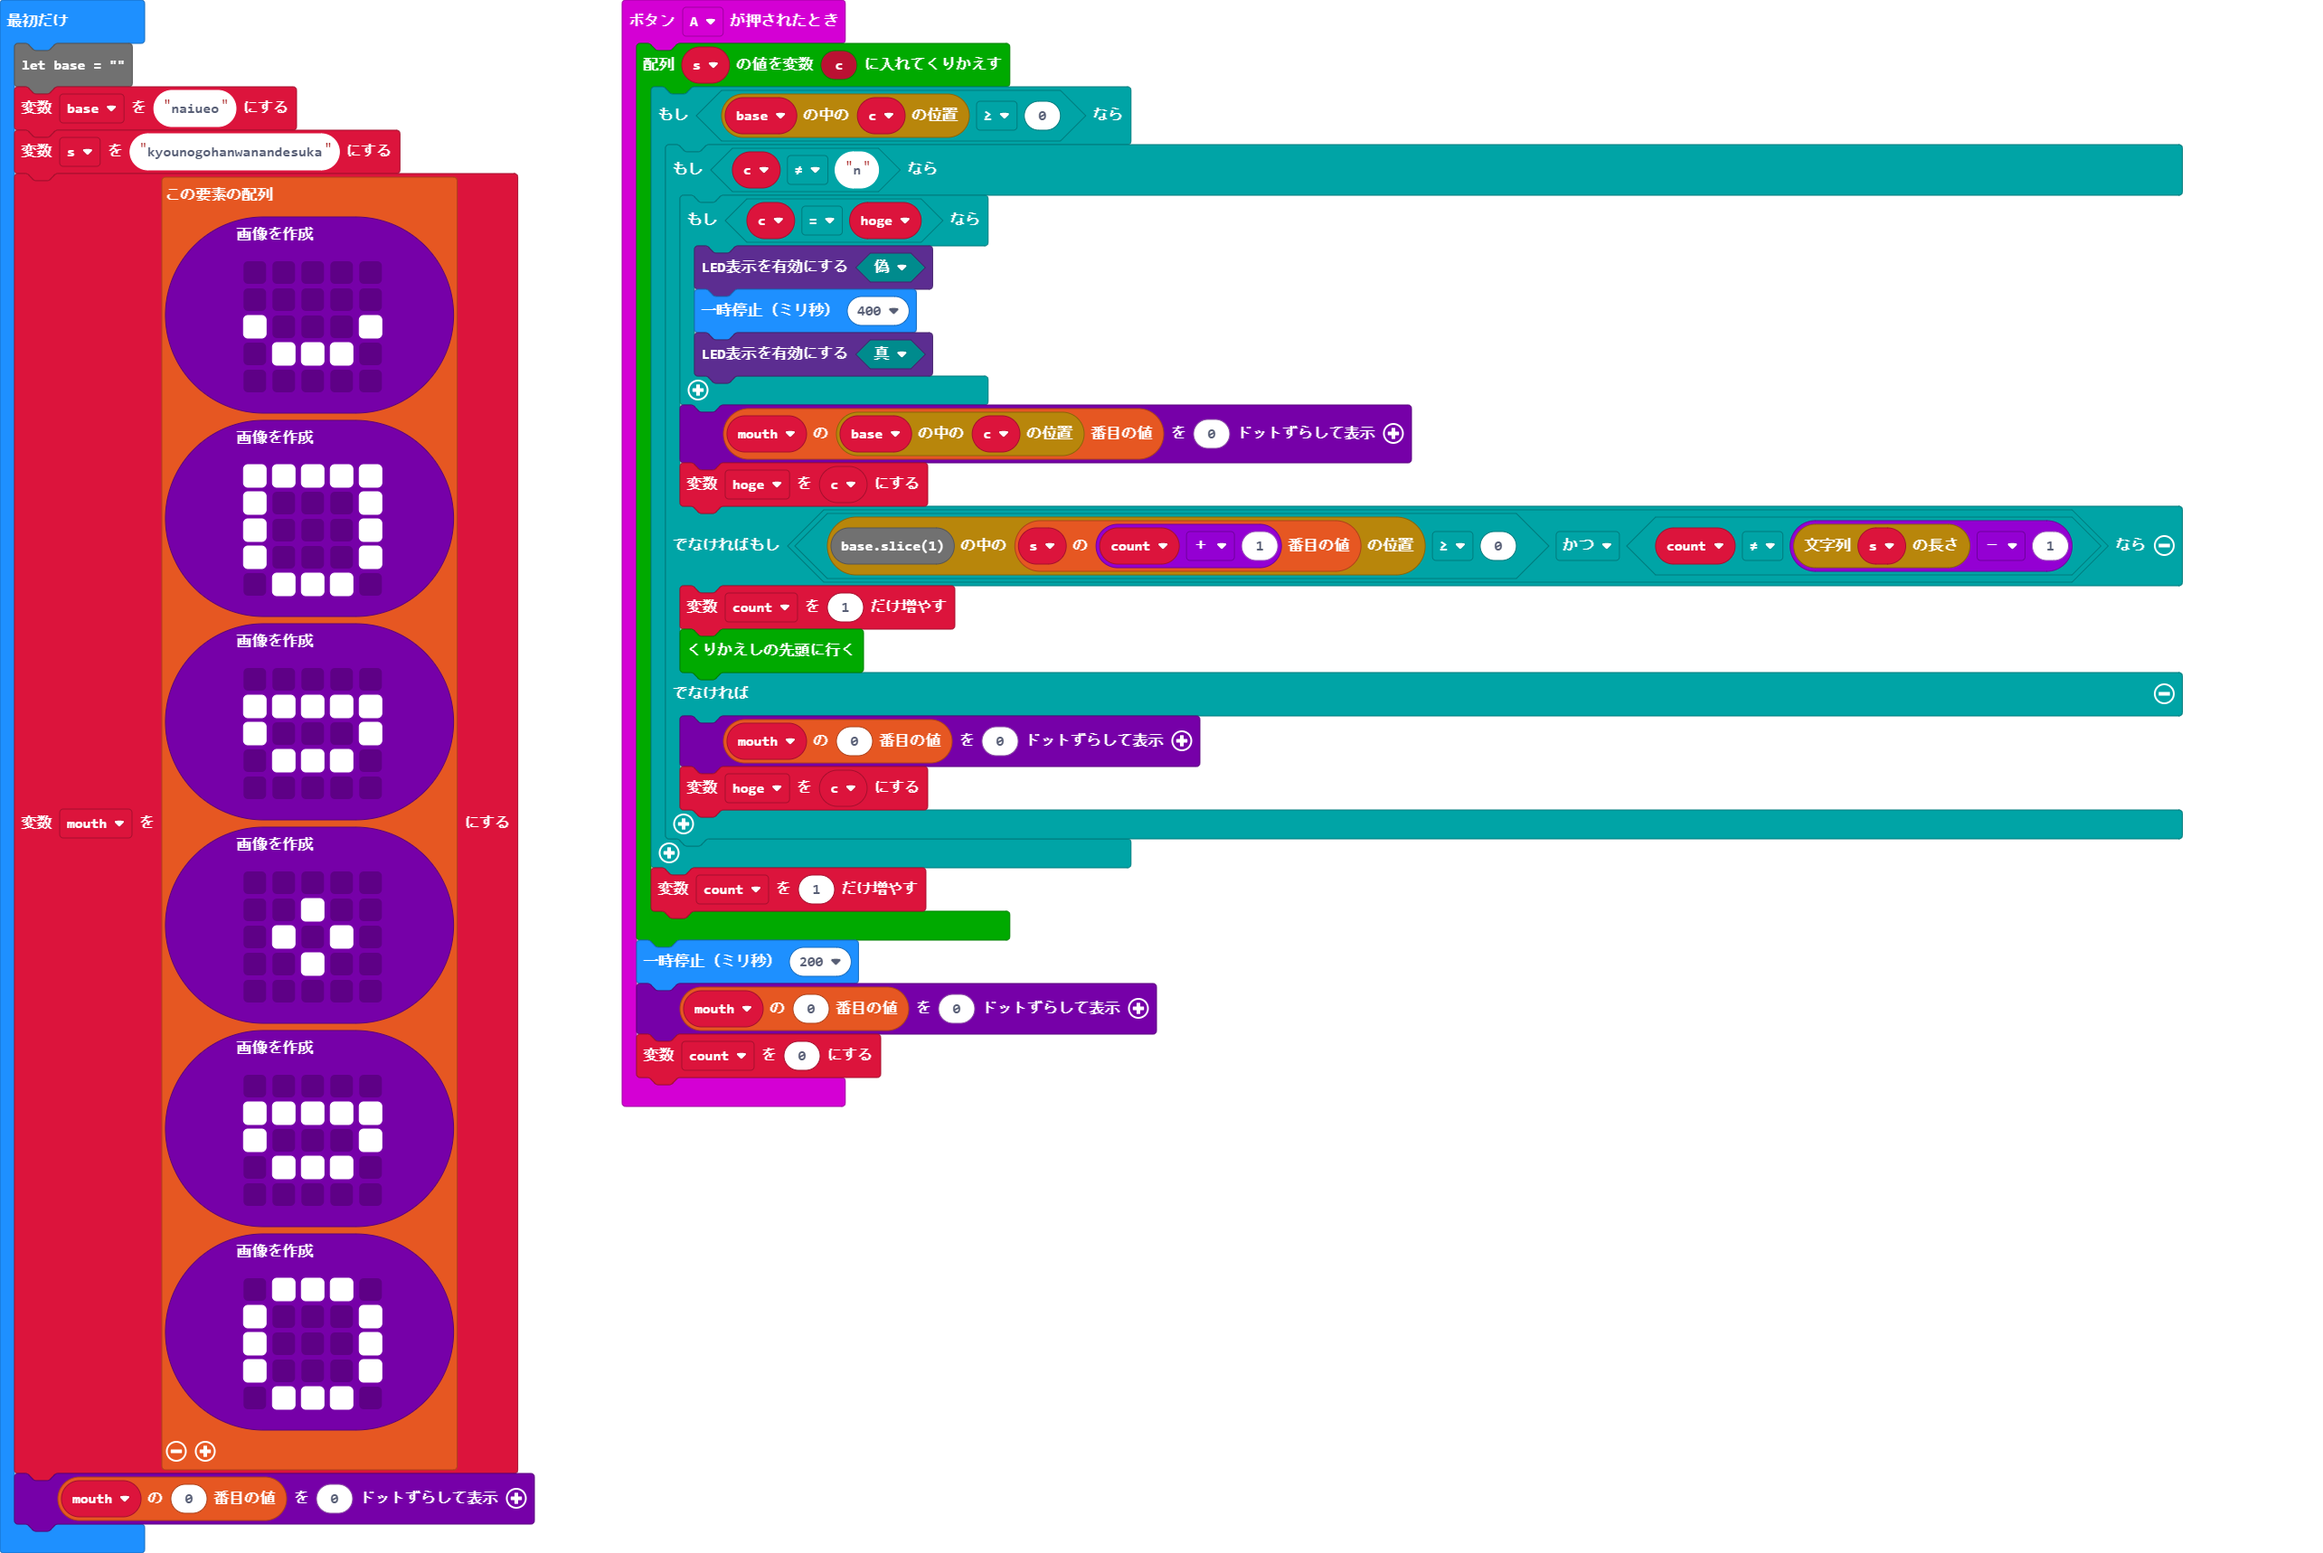
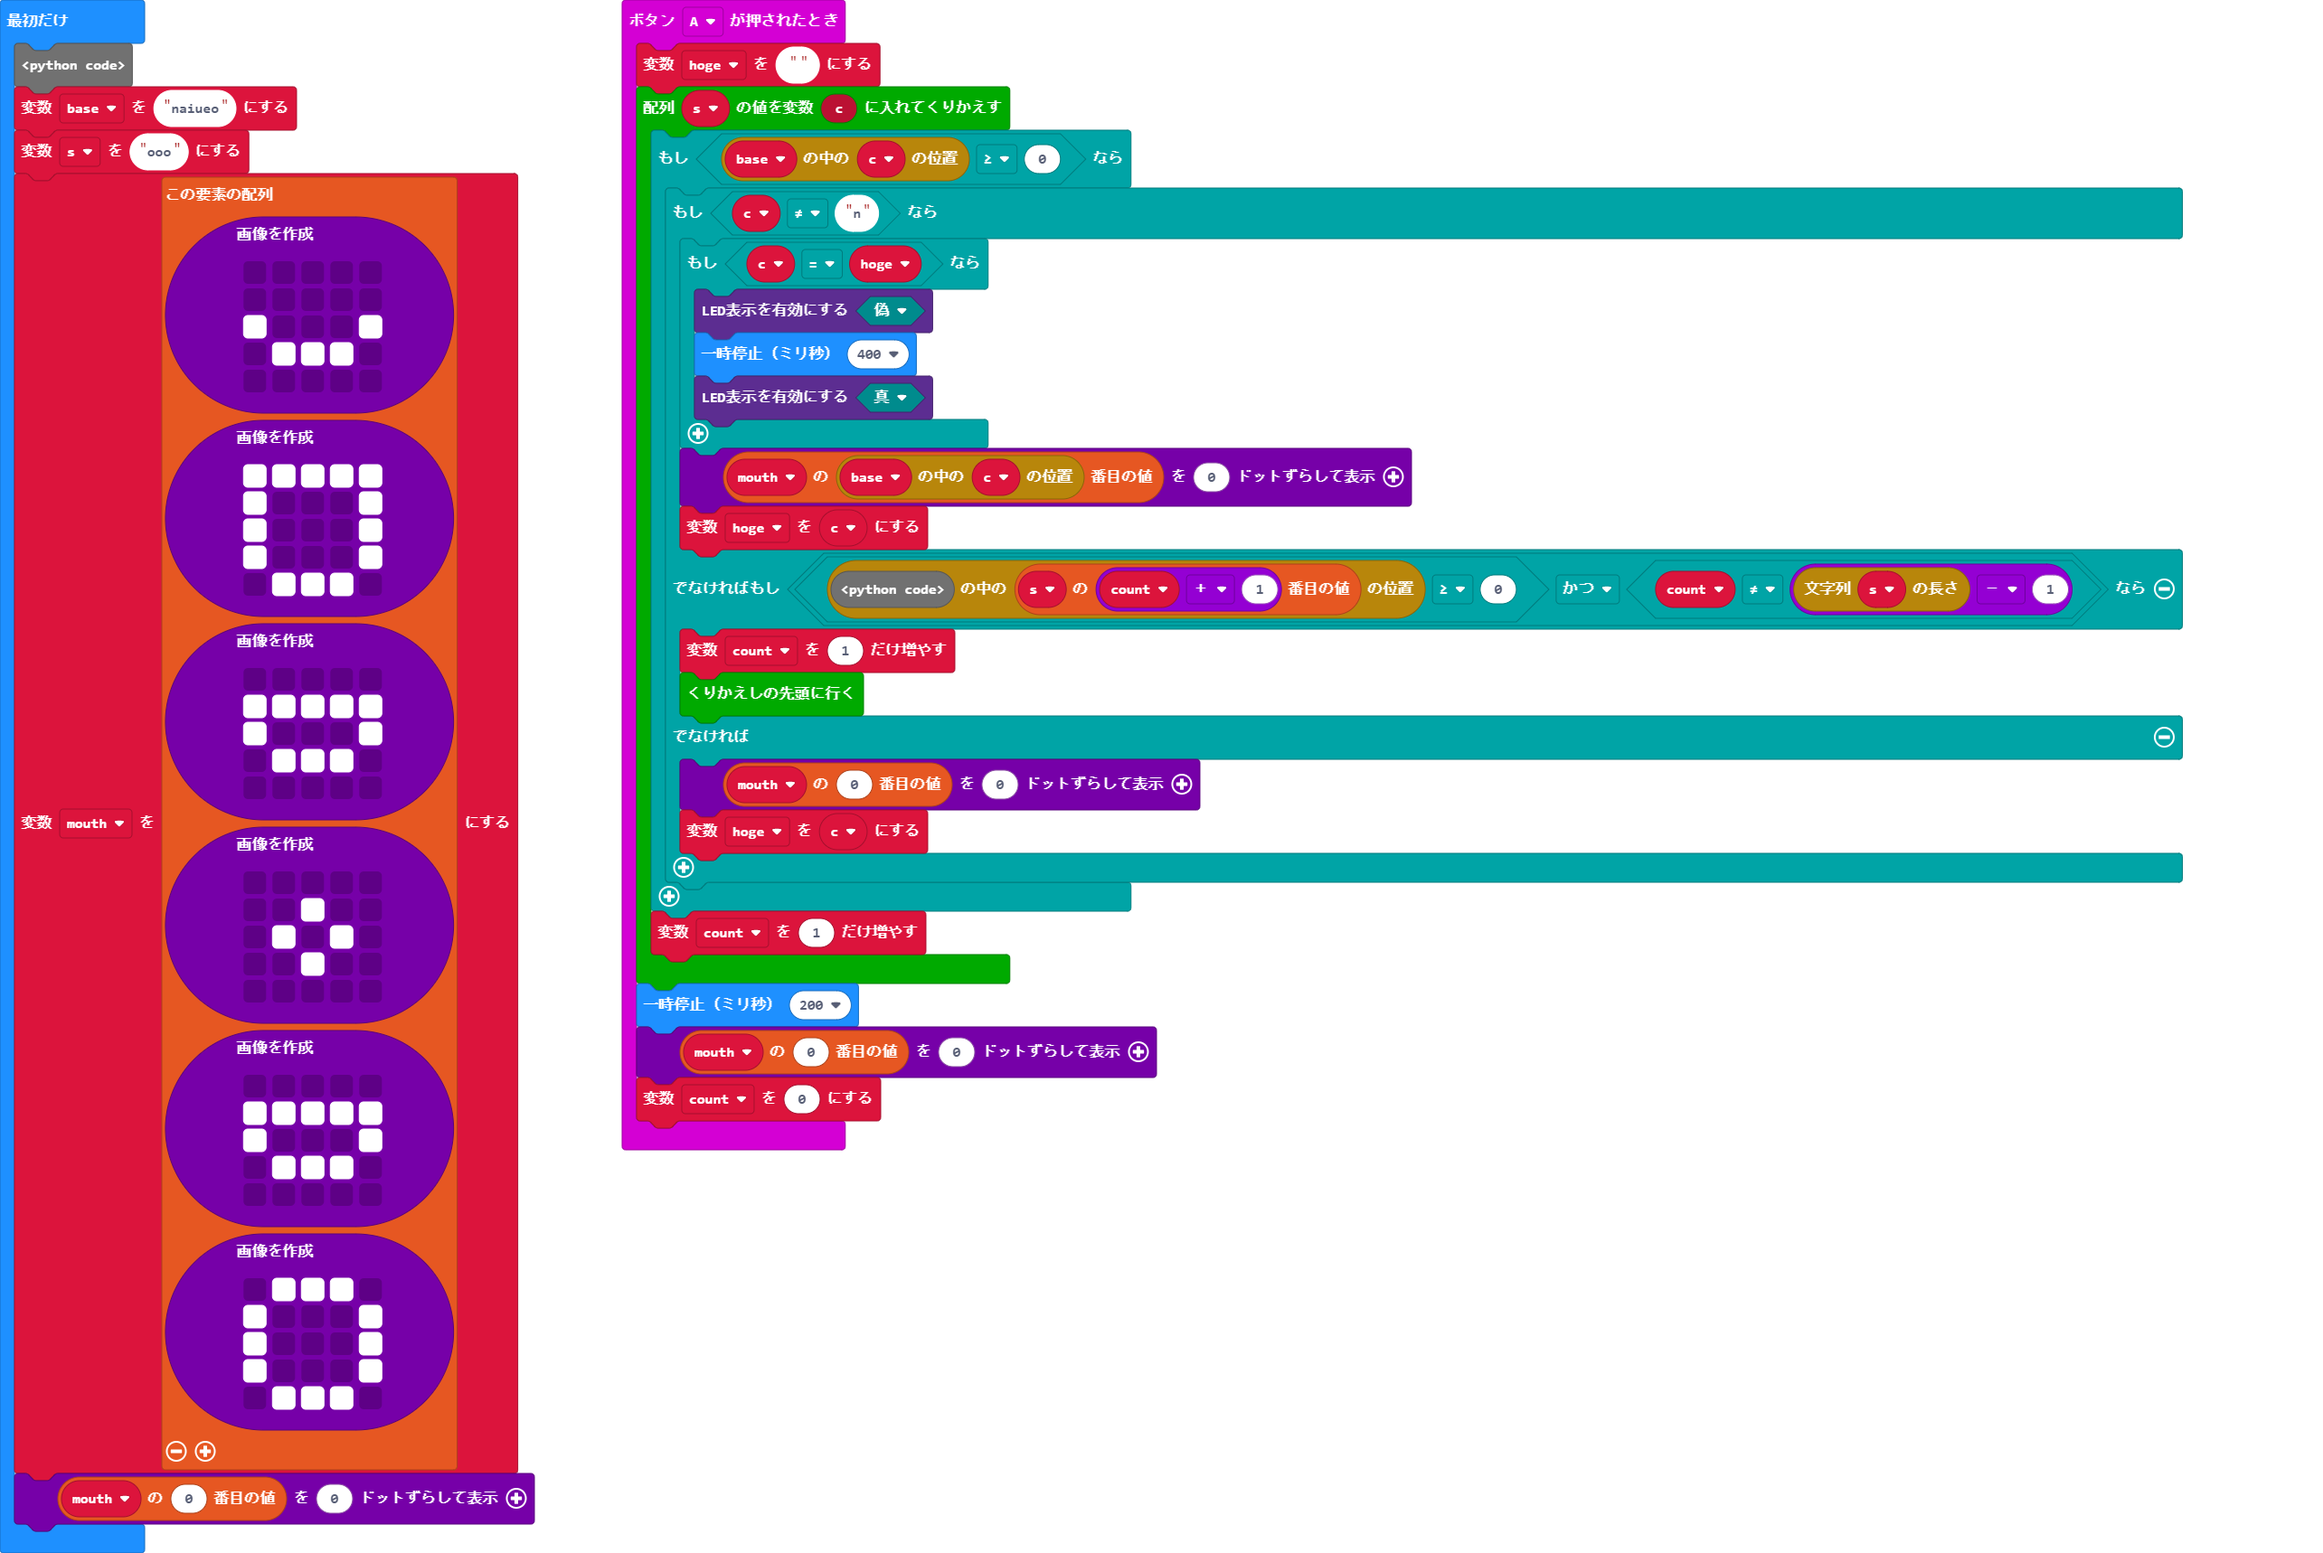
hogeを初期化

Changed region(s): [[0.2491, 0.0, 0.9654, 0.7404], [0.0623, 0.0617, 0.1868, 0.1234]]

diff --git a/main.ts b/main.ts
@@ -1,5 +1,6 @@
 input.onButtonPressed(Button.A, function on_button_pressed_a() {
     
+    hoge = ""
     for (let c of s) {
         if (base.indexOf(c) >= 0) {
             if (c != "n") {
@@ -27,13 +28,13 @@ input.onButtonPressed(Button.A, function on_button_pressed_a() {
     mouth[0].showImage(0)
     count = 0
 })
-let hoge = ""
 let count = 0
+let hoge = ""
 let mouth : Image[] = []
 let s = ""
 let base = ""
 base = "naiueo"
-s = "kyounogohanwanandesuka"
+s = "ooo"
 mouth = [images.createImage(`
     . . . . .
     . . . . .

diff --git a/main.py b/main.py
@@ -1,5 +1,6 @@
 def on_button_pressed_a():
     global hoge, count
+    hoge = ""
     for c in s:
         if base.index_of(c) >= 0:
             if c != "n":
@@ -21,13 +22,13 @@ def on_button_pressed_a():
     count = 0
 input.on_button_pressed(Button.A, on_button_pressed_a)
 
-hoge = ""
 count = 0
+hoge = ""
 mouth: List[Image] = []
 s = ""
 base = ""
 base = "naiueo"
-s = "kyounogohanwanandesuka"
+s = "ooo"
 mouth = [images.create_image("""
     . . . . .
     . . . . .
